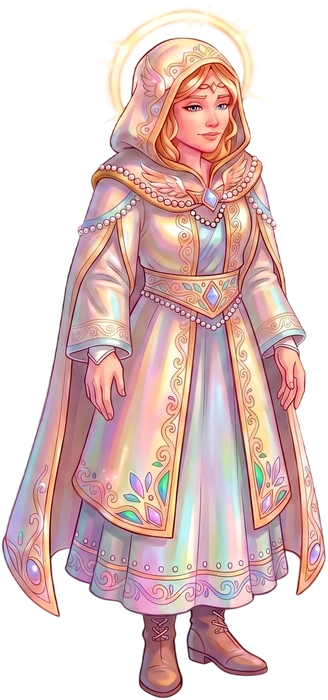
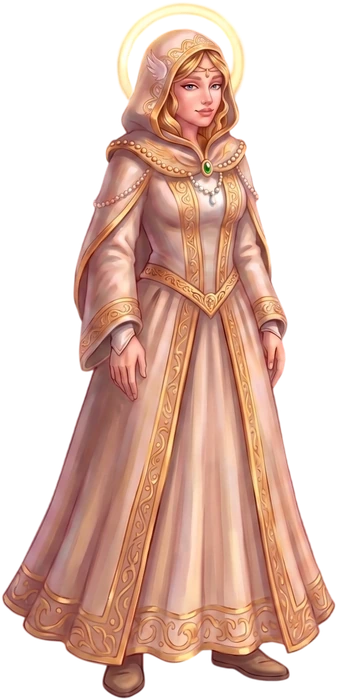
queue: новая моделька мифической торговки в полосе (merchant-3.webp), меньше других
- merchant-3.webp пересобран из «Торговка мифической лавки.png.png» (полный рост, 337x700).
- в полосе идёт .merch-sm (38px < 48px у других) → не больше остальных торговцев.
- на сцене НЕ показывается (hideMerchant у q3 — уже нарисована в лавке).
- ?v=2 на merchant img (сброс кэша), queue-scene ?v=1891000000.

diff --git a/frontend/js/queue-scene.js b/frontend/js/queue-scene.js
@@ -3796,7 +3796,7 @@
       merchBox.innerHTML =
         '<details class="qs-merch-det"><summary>' +
           '<div class="qs-merch-npc">' +
-            '<img class="qs-merch-img" src="assets/queue/scene/merchant-' + b.q + '.webp" alt="">' +
+            '<img class="qs-merch-img" src="assets/queue/scene/merchant-' + b.q + '.webp?v=2" alt="">' +
             '<div class="qs-merch-title">🏪 Награды: ' + esc(MERCH_LABEL[b.q]) + "</div></div>" +
           '<div class="qs-merch-sumline">📋 что выдаёт · сколько стоят — нажми, чтобы встать (' + resItems.length + ")" +
             (anyFree ? '<span class="qs-merch-free">✦ есть свободные</span>' : "") + "</div>" +

diff --git a/frontend/queue.html b/frontend/queue.html
@@ -286,6 +286,6 @@
   <script src="js/view-as.js?v=1815100000"></script>
   <script src="js/queue-open.js?v=1883001500"></script>
   <script src="js/queue.js?v=1886100000"></script>
-  <script src="js/queue-scene.js?v=1890900000"></script>
+  <script src="js/queue-scene.js?v=1891000000"></script>
 </body>
 </html>
